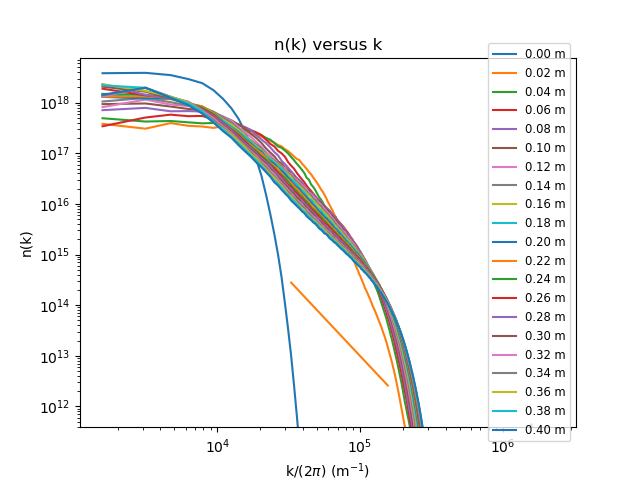
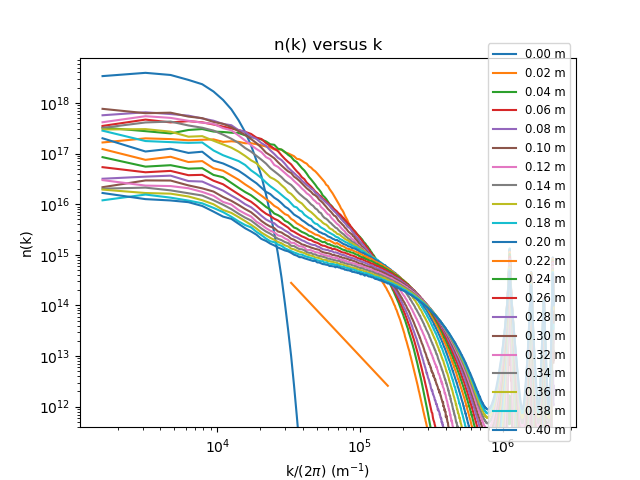
averagind the fft out; we keep the intensity of the beams.

diff --git a/raul/thermalization/thermalization.py b/raul/thermalization/thermalization.py
@@ -9,7 +9,7 @@ PRECISION_REAL = np.float32
 
 
 N = 2048
-n2 = -4e-10
+n2 = -6e-10
 k_max = 2*np.pi*2e3 # maximum k vector of the beam profile
 #waist = 2.23e-3
 window = 8 * 2*np.pi/k_max
@@ -37,13 +37,16 @@ def main():
     simu.delta_z = 0.4e-4
 
     # parameters for callback
-    N_samples = 20
+    N_samples = 10
     z_samples = np.zeros(N_samples+1) # +1 to account for the 0th step
     z_samples[0] = 0
     E_samples = np.zeros((N_samples+1, N, N), dtype=np.complex64)
 
     #vector for keeping track of state norm
     norm_state = np.zeros(N_samples + 1)
+
+    #array for average of final state fft
+    fft_average = np.zeros([simu.NY,simu.NX])
 
     N_steps = int(round(L/simu.delta_z))
     save_every = N_steps//N_samples
@@ -107,6 +110,7 @@ def main():
         norm_state = norm_state + np.sum(np.sum(amp_E_sqr,axis=2),axis=1)
     
         E_fft_abs = abs(E_fft)
+        fft_average = fft_average + E_fft_abs[N_samples]**2
 
         # Sum values in each radial bin
         for ii in np.arange(N_samples+1):
@@ -117,6 +121,7 @@ def main():
 
     radial_mean_fft = radial_mean_fft/N_real
     norm_state = norm_state/norm_state[0]
+    fft_average = fft_average/N_real
 
     #k_r = np.arange(len(nr))*k_step
     k_max_plot = 200*k_max
@@ -128,9 +133,13 @@ def main():
         plt.loglog(k_vec[0:plot_index],radial_mean_fft[ii,0:plot_index],label=(str("%.2f" % z_samples[ii])+" m"))
 
     exponent = -3
+    in_min = 8
+    in_max = 40
+    plt.loglog(k_vec[in_min:in_max],1e29*(k_vec[in_min:in_max])**exponent,linestyle='--',label = r'1/k$^3$')
+    exponent = -2
     in_min = 20
     in_max = 100
-    plt.loglog(k_vec[in_min:in_max],1e28*(k_vec[in_min:in_max])**exponent)
+    plt.loglog(k_vec[in_min:in_max],1e24*(k_vec[in_min:in_max])**exponent,linestyle='--',label = r'1/k$^2$')
     plt.legend(loc = 'right', fontsize = 'small')
     fft_max = max(radial_mean_fft[0])
     plt.ylim([1e-7*fft_max,2*fft_max])
@@ -140,24 +149,34 @@ def main():
     plt.savefig("img/azimuthal_fft_out.png")
 
     plt.figure()
-    plt.imshow(abs(E_0_fft[zero_index-100:zero_index+100,zero_index-100:zero_index+100]))
-    plt.title("Abs of FFT of input beam")
+    plt.imshow(abs(E_0_fft[zero_index-100:zero_index+100,zero_index-100:zero_index+100])**2)
+    plt.title("zoom of n(k) vectoriel of input beam")
     plt.savefig("img/fft_input_beam.png")
 
     plt.figure()
-    plt.imshow(abs(E_0))
-    plt.title("Intensity of input beam")
+    plt.imshow(abs(E_0)**2)
+    plt.title("Intensity of input beam (1 realization)")
     plt.savefig("img/input_beam.png")
 
     plt.figure()
-    plt.imshow(abs(E_samples[10]))
-    plt.title("Intensity of output beam")
+    plt.imshow(np.angle(E_0))
+    plt.title("Phase of input beam (1 realization)")
+    plt.savefig("img/phase_input_beam.png")
+
+    plt.figure()
+    plt.imshow(abs(E_samples[N_samples])**2)
+    plt.title("Intensity of output beam (1 realization)")
     plt.savefig("img/output_beam.png")
+
+    plt.figure()
+    plt.imshow(np.angle(E_samples[N_samples]))
+    plt.title("Phase of output beam (1 realization)")
+    plt.savefig("img/output_beam_phase.png")
     
     plt.figure()
     E_out_fft = E_fft[N_samples]
-    plt.imshow(abs(E_out_fft[zero_index-100:zero_index+100,zero_index-100:zero_index+100]))
-    plt.title("Abs of FFT of output beam")
+    plt.imshow(fft_average[zero_index-100:zero_index+100,zero_index-100:zero_index+100])
+    plt.title("zoom of n(k) vectoriel of output beam (averaged)")
     plt.savefig("img/fft_out_beam.png")
 
     plt.figure()
